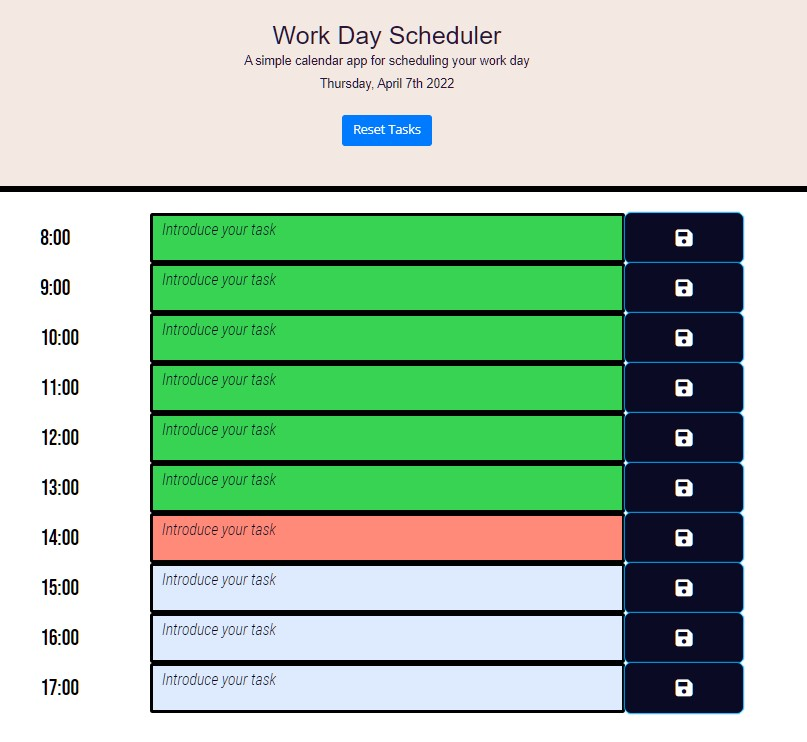
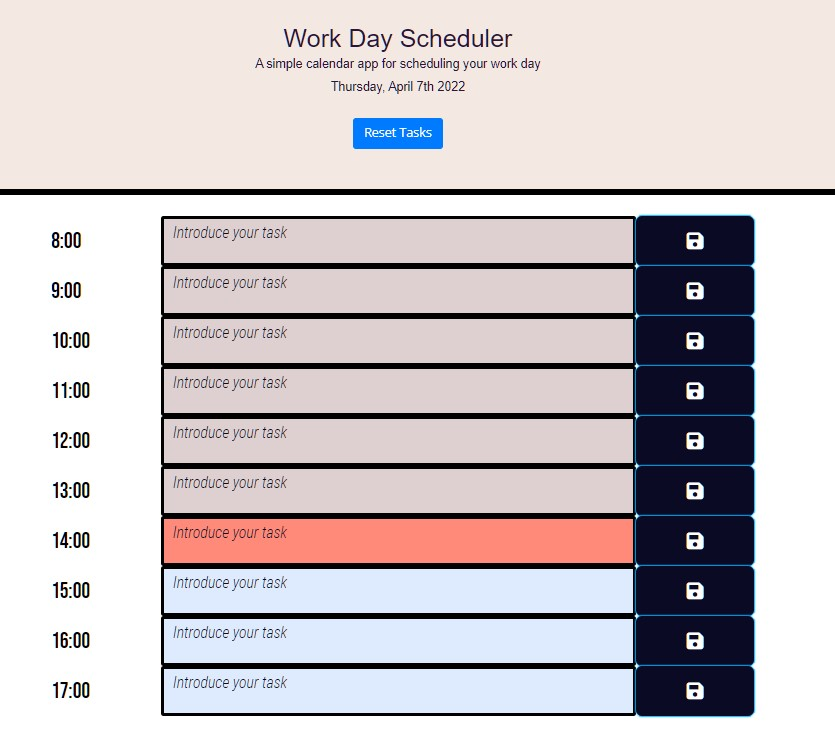
Color Update

diff --git a/Develop/style.css b/Develop/style.css
@@ -80,7 +80,7 @@ textarea {
 }
 
 .past {
-  background-color: #39d353;
+  background-color: #ddd0d0fd;
   color: black;
   font-size: 25px;
   text-align: left;
